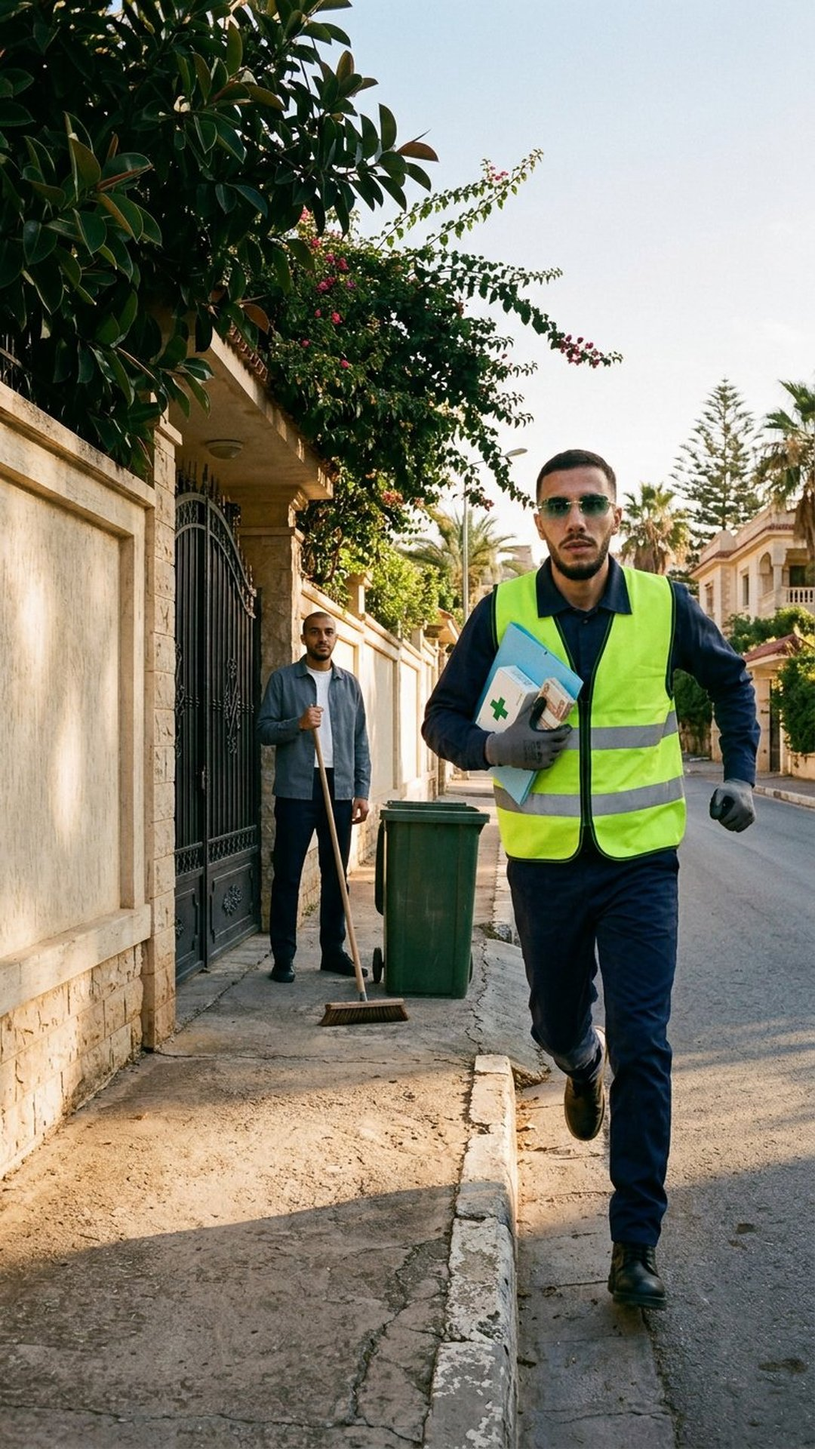
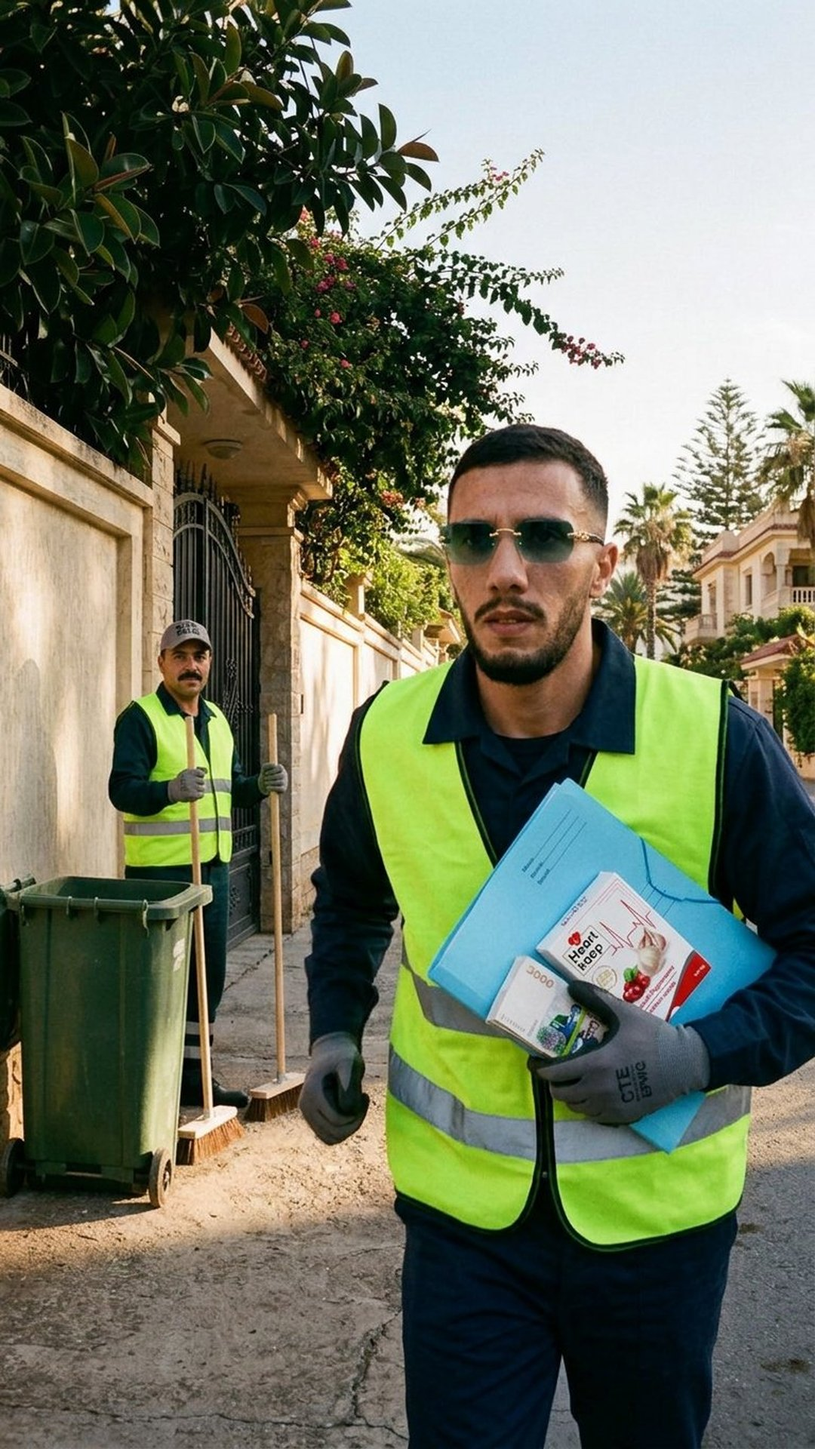
Upgrade AMIN_CLEANER_DRAMA_11SCENES (50mm close face lock, real 2000DA & Heart Keep props, CTE/EPWG Mourad, Scenes 01-08)

diff --git a/AMIN_CLEANER_DRAMA_11SCENES/00_SCENES_01_TO_08_FLOW_PROMPTS_9x16.md b/AMIN_CLEANER_DRAMA_11SCENES/00_SCENES_01_TO_08_FLOW_PROMPTS_9x16.md
@@ -1,0 +1,144 @@
+# 🎬 «أمين الزبّال: الدواء اللي فـالقمامة!» — المشاهد `01` إلى `08` (نسخة الواقعية الفائقة `50mm` + الإكسسوارات الحقيقية)
+## Google Flow (`Veo 3.1`) Vertical `9:16` Live-Action Algerian Drama Blueprint
+
+- **العنوان:** أمين الزبّال — «الدواء اللي فـالقمامة!» (*Amin the Sanitation Worker: The Medicine in the Trash*)
+- **النوع والأسلوب البصري:** دراما اجتماعية جزائرية واقعية (`Photorealistic 35mm Live-Action Cinema — ARRI Alexa Mini LF 50mm Prime Lens`)، تفاصيل مسام جلد حقيقية وقريبة (`Close Medium Framing`) تمنع تشوّه ملامح الوجه من بعيد.
+- **الأبعاد والمنصّة المستهدفة:** عمودي `9:16` (`1080×1920`) مصمّم خصّيصاً لـ **`Google Flow (Veo 3.1)`**.
+- **التقدّم الحالي:** تمّ إنجاز **جميع المراجع الثابتة + 8 مشاهد متسلسلة كاملة (`Scenes 01–08` = `64 ثانية`)**؛ يتبقّى فقط **المشاهد الختامية الثلاثة (`Scenes 09, 10, 11` = `24 ثانية`)** لإتمام الحلقة الكاملة (`11 مشهداً = 88 ثانية`).
+- **الموسيقى:** **`ZERO BACKGROUND MUSIC`** (صفر موسيقى خلفية — تركيز كامل على التمثيل الصوتي بالدارجة الجزائرية والمؤثرات الصوتية الفيزيائية الواقعية `Foley SFX`).
+
+---
+
+## 🔥 التحسينات الاحترافية المنفّذة في هذه النسخة
+
+1. **تطابق وجه أمين 100% بتأطير عدسة `50mm` القريب (`Zero Distance Drift`):**
+   - تمّ دمج صور البورتريه الماكرو الحقيقية عالية الدقّة لوجه أمين ونظاراته الزمردية ذات المفصل الذهبي (`CHAR_01_AMIN_CLEANER_9x16.jpg`)، مع تقريب الكاميرا في جميع المشاهد (`Waist-up / Mid-thigh 50mm Prime Framing`) حتى يظهر وجه أمين كبيراً وحادّ التفاصيل بنسبة 100% دون أي تغيّر من بعيد.
+2. **الإكسسوارات الجزائرية الحقيقية المرفوعة (`PROP_MASTER_SHEET_9x16.jpg`):**
+   - **علبة دواء القلب الحقيقية (`Heart keep`):** باللون الأبيض والأحمر ورسمة القلب وتخطيط النبض، تظهر بوضوح في يد سي كمال (`Scene 01`)، وداخل فوهة الكيس الأسود المرمي (`Scene 02`)، وعند تمزّق الكيس (`Scene 04`)، وفي يد أمين حتّى باب العيادة (`Scenes 05, 06, 08`).
+   - **رزمة الأوراق النقدية الجزائرية الحقيقية فئة `2000 دج` (`الألفا دينار — بنك الجزائر — مجموعة الستة`) المربوطة بمطاط أخضر + الورقة المنفردة (`2000 دج`):** تظهر بدقّة فوتوغرافية فائقة في مشاهد الاكتشاف والامتحان الأخلاقي والتسليم (`Scenes 04, 05, 06, 08`).
+3. **شخصية الزميل الجديد «مراد» عامل النظافة الجزائري (`CHAR_03_MOURAD_CLEANER_9x16.jpg`):**
+   - تمّ استبدال يوسف بشخصية زميل عمل جزائري واقعي (**مراد** — بشنب جزائري وأعين مكشوفة بدون نظارات)، يرتدي نفس بذلة وسترة النظافة الفسفورية، وعلى رأسه **قبعة رمادية مكتوب عليها بالأسود الواضح شعار `CTE / EPWG`**، ويحمل **مكنسته الخشبية الخاصة** كأنّه كان يكنس الشارع المجاور ومرّ على أمين (`Scene 05`)، ثم يمسك **المكنستين معاً (مكنسته ومكنسة أمين)** حين ينطلق أمين راكضاً نحو العيادة (`Scene 06`)!
+
+---
+
+## 📁 فهرس الملفات الجاهزة (`1080×1920`)
+
+### 1. المراجع الثابتة (`01_REFERENCES/`)
+- `CHAR_01_AMIN_CLEANER_9x16.jpg` — بطاقة القفل الفائقة لأمين (صور الوجه الحقيقية الماكرو + النظارة الزمردية الذهبية + بذلة النظافة).
+- `CHAR_02_SI_KAMAL_9x16.jpg` — بطاقة شخصية سي كمال رجل الأعمال (أعين مكشوفة بدون نظارات).
+- `CHAR_03_MOURAD_CLEANER_9x16.jpg` — بطاقة شخصية الزميل مراد ببذلة النظافة وقبعة `CTE / EPWG` الرمادية بالكتابة السوداء وحاملاً مكنسته.
+- `LOC_01_VILLA_STREET_9x16.jpg` — لوحة رصيف الفيلا بحيدرة صباحاً (`Scenes 01–06`).
+- `LOC_02_CLINIC_ENTRANCE_9x16.jpg` — لوحة مدخل عيادة أمراض القلب `CLINIQUE CARDIOLOGIQUE` (`Scenes 07–11`).
+- `PROP_MASTER_SHEET_9x16.jpg` — لوحة الإكسسوارات الحقيقية الموحّدة (`Heart keep` + رزمة `2000 دج` بمطاط أخضر + ورقة `2000 دج` منفردة).
+
+### 2. إطارات المشاهد الجاهزة (`02_SCENES_9x16/`)
+- `SCENE_01_SWEEPING_MORNING_9x16.jpg`
+- `SCENE_02_BAG_HURLED_AT_FEET_9x16.jpg`
+- `SCENE_03_PUBLIC_HUMILIATION_9x16.jpg`
+- `SCENE_04_TORN_BAG_MEDICINE_REVEAL_9x16.jpg`
+- `SCENE_05_MOURAD_TEMPTATION_REFUSED_9x16.jpg`
+- `SCENE_06_AMIN_RUNS_TO_CLINIC_9x16.jpg`
+- `SCENE_07_FATHER_COLLAPSE_STEPS_9x16.jpg`
+- `SCENE_08_AMIN_ARRIVES_BREATHLESS_9x16.jpg`
+
+---
+
+## 🎥 برومبتات `Google Flow (Veo 3.1)` الجاهزة للنّسخ (`Scenes 01–08`)
+
+> **طريقة الاستعمال في `Google Flow`:** اختر وضع **`Frames to Video` (`Portrait 9:16` — `Veo 3.1 - Quality`)**، ضع صورة المشهد في خانة **`First Frame`**، وانسخ البرومبت المقابل لها حرفياً. (للمشهدين `01 -> 02` يمكنك أيضاً وضع `SCENE_01` كـ `First Frame` و`SCENE_02` كـ `Last Frame` لانتقال متّصل بنسبة 100%).
+
+---
+
+### 🔹 SCENE 01 (`00:00 – 00:08`) — صباح الخبزة الحلال والخطأ القاتل على الهاتف
+- **ملف الإطار الأوّل (`First Frame`):** `02_SCENES_9x16/SCENE_01_SWEEPING_MORNING_9x16.jpg`
+- **الحوار بالدارجة الجزائرية (سي كمال فقط):**
+  > **سي كمال (متوتّر في الهاتف):** «راني خارَجْ ضْرُوكْ للْكْلينيكْ! قُولْ للْطّبيبْ ما يَبْداشْ العَمَلِيَّة حَتّى نَلْحَقْ!»
+
+```text
+Photorealistic 35mm live-action vertical 9:16 cinema clip starting from the exact uploaded frame on the sunlit Hydra Algiers villa sidewalk at 7:00 AM, shot on 50mm prime lens. Camera: Locked tripod medium shot keeping Amin's face sharp in the right foreground; zero camera shake, zero room mirroring, zero lens gaze. Action: In the right foreground beside the dark-green wheeled trash bin, the young Algerian sanitation worker in rimless emerald-gold spear-hinge sunglasses and neon-green reflective vest (Amin, mouth strictly closed and silent throughout) sweeps calmly along the concrete curb with his wooden push-broom. In the left midground walking briskly out from the black iron villa gate, the bare-eyed 48-year-old businessman in the charcoal blazer and sky-blue shirt (Si Kamal, NO glasses) presses his smartphone to his right ear while distractedly clutching the thin black plastic trash bag pressed tightly together with the white-and-red "Heart keep" medicine box and sky-blue clinic folder in his left hand. Only the older businessman on screen-left speaks urgently into his phone in authentic Algerian Darja from 0.8s to 6.5s: "راني خارَجْ ضْرُوكْ للْكْلينيكْ! قُولْ للْطّبيبْ ما يَبْداشْ العَمَلِيَّة حَتّى نَلْحَقْ!" Audio: crisp stiff push-broom bristles sweeping concrete, brisk leather dress shoes on stone pavement, thin black plastic bag rustling against the cardboard medicine box, faint morning Algiers birdsong, ZERO background music.
+```
+
+---
+
+### 🔹 SCENE 02 (`00:08 – 00:16`) — رمية الاحتقار عند الحذاء ونصيحة أمين الهادئة
+- **ملف الإطار الأوّل (`First Frame`):** `02_SCENES_9x16/SCENE_02_BAG_HURLED_AT_FEET_9x16.jpg`
+- **الحوار بالدارجة الجزائرية (أمين فقط):**
+  > **أمين (بهدوء وأدب):** «يا خُويا البُوبالْ راهي مَفْتوحَة قُدّامَكْ.. غِيرْ خَطْوْتِينْ بَرْكْ.»
+
+```text
+Photorealistic 35mm live-action vertical 9:16 cinema clip starting from the exact uploaded frame on the sunlit Algiers villa sidewalk, shot on 50mm prime lens. Camera: Locked tripod medium shot keeping Amin's face large and crisp on screen-right; zero digital zoom, zero lens gaze. Action: The thin black plastic trash bag with the slipped-in sky-blue medical folder and white-and-red "Heart keep" medicine box sits snagged on the jagged chipped concrete curb edge at the bottom center after being carelessly tossed there. On screen-left, the bare-eyed older businessman in the charcoal blazer (Si Kamal, NO glasses, mouth closed in an impatient scowl with his phone at his ear) stops and glares at Amin. In the right foreground, the young Algerian cleaner in rimless emerald-gold sunglasses and neon-green reflective vest (Amin) pauses his wooden broom, lifts his head calmly toward Si Kamal, and gestures respectfully with his right gloved hand toward the green wheeled trash bin right behind him. Only Amin on screen-right speaks calmly in authentic Algerian Darja from 1.2s to 6.2s: "يا خُويا البُوبالْ راهي مَفْتوحَة قُدّامَكْ.. غِيرْ خَطْوْتِينْ بَرْكْ." Audio: crinkle of the thin black plastic bag settling against rough chipped concrete, wooden broom handle tap, soft work-glove movement, quiet morning street air, ZERO background music.
+```
+
+---
+
+### 🔹 SCENE 03 (`00:16 – 00:24`) — الإهانة العلنية وجهاً لوجه وصمت الرجولة
+- **ملف الإطار الأوّل (`First Frame`):** `02_SCENES_9x16/SCENE_03_PUBLIC_HUMILIATION_9x16.jpg`
+- **الحوار بالدارجة الجزائرية (سي كمال فقط):**
+  > **سي كمال (باحتقار وغضب):** «ما تْوَرّينيشْ واشْ نْديرْ! خَدْمْتَكْ تَرْفَدْ الزّبَلْ وأنتَ ساكَتْ!»
+
+```text
+Photorealistic 35mm live-action vertical 9:16 cinema clip starting from the exact uploaded tight waist-up two-shot, shot on 50mm prime lens. Camera: Subtle slow cinematic push-in over 8 seconds keeping both faces razor-sharp; zero lens gaze. Action: On screen-left, the bare-eyed 48-year-old businessman in the charcoal blazer (Si Kamal, NO glasses) jabs his right index finger arrogantly toward Amin's chest as he barks his insult, then at 5.5s turns sharply away toward his parked black SUV in the background. On screen-right, the young Algerian cleaner in rimless emerald-gold spear-hinge sunglasses and neon-green reflective vest (Amin) grips his upright wooden broom shaft firmly with both grey gloved hands, keeping his mouth strictly closed, jaw tightening in quiet hurt and unbreakable dignity as he absorbs the insult silently. Only the older businessman on screen-left speaks harshly in authentic Algerian Darja from 0.5s to 5.2s: "ما تْوَرّينيشْ واشْ نْديرْ! خَدْمْتَكْ تَرْفَدْ الزّبَلْ وأنتَ ساكَتْ!" Audio: sharp blazer fabric snap on finger point, tight leather-and-cloth creak of work gloves gripping the wooden broom handle, brisk leather shoes turning away on concrete, distant luxury SUV door opening and closing at the end, ZERO background music.
+```
+
+---
+
+### 🔹 SCENE 04 (`00:24 – 00:32`) — الاكتشاف الواقعي: تمزّق الكيس الأسود وسقوط دواء `Heart keep` ورزمة `2000 دج`
+- **ملف الإطار الأوّل (`First Frame`):** `02_SCENES_9x16/SCENE_04_TORN_BAG_MEDICINE_REVEAL_9x16.jpg`
+- **الحوار بالدارجة الجزائرية (أمين فقط — همسة صدمة):**
+  > **أمين (بصدمة وخوف حقيقي):** «يا سَتّارْ.. هاذا دْوا تاعْ القَلْبْ ومَلَفْ عَمَلِيَّة ودْراهَمْ كْبارْ!»
+
+```text
+Photorealistic 35mm live-action vertical 9:16 cinema clip starting from the exact uploaded close crouching shot on the empty sunlit Algiers sidewalk, shot on 50mm prime lens. Camera: Subtle slow push-in on Amin and the spilled items on the concrete; zero lens gaze. Action: Crouching low beside the rough chipped concrete curb, the young Algerian cleaner in rimless emerald-gold sunglasses and neon-green reflective vest (Amin) holds the snagged, ripped-open thin black plastic trash bag in his left gloved hand while his right gloved hand reaches down gently to touch the white-and-red "Heart keep" medicine box lying beside the green-rubber-banded bundle of Algerian 2000 Dinar banknotes and single 2000 Dinar note atop the sky-blue medical clinic folder. His mouth parts in genuine shock and concern as he realizes what fell out of the torn bag. Only Amin speaks in a hushed, stunned voice in authentic Algerian Darja from 2.0s to 7.2s: "يا سَتّارْ.. هاذا دْوا تاعْ القَلْبْ ومَلَفْ عَمَلِيَّة ودْراهَمْ كْبارْ!" Audio: crisp realistic rustle and tear-crinkle of the snagged thin black plastic bag, gloved fingers tapping the cardboard "Heart keep" medicine box and stiff blue clinic folder, sharp intake of breath, ZERO background music.
+```
+
+---
+
+### 🔹 SCENE 05 (`00:32 – 00:40`) — امتحان الضمير: الزميل «مراد» (بقبعة `CTE / EPWG`) يغريه بالمال وأمين يرفض
+- **ملف الإطار الأوّل (`First Frame`):** `02_SCENES_9x16/SCENE_05_MOURAD_TEMPTATION_REFUSED_9x16.jpg`
+- **الحوار بالدارجة الجزائرية (بين مراد وأمين):**
+  > **مراد (`0.4s – 3.4s`):** «السّيّدْ بَهْدْلَكْ وْراحْ! أدّي هذو الدّْراهَمْ وخَلّيهْ!»
+  > **أمين (`3.7s – 7.7s`):** «حاشا يا مُرادْ! هاذا دْوا تاعْ القَلْبْ.. الرّجْلَة ما تَتْباعْشْ!»
+
+```text
+Photorealistic 35mm live-action vertical 9:16 cinema clip starting from the exact uploaded tight waist-up two-shot on the sunlit Algiers sidewalk, shot on 50mm prime lens. Camera: Locked tripod medium two-shot; strict Identity Firewall (Mourad on screen-left wears the grey "CTE / EPWG" cap with bare eyes and NO glasses; ONLY Amin on screen-right wears rimless emerald-gold sunglasses and NO cap); zero lens gaze. Action: From 0.4s to 3.4s, the mustached fellow sanitation worker on screen-left (Mourad, resting his wooden push-broom against his shoulder) gestures persuasively with the green-rubber-banded Algerian 2000 Dinar banknote bundle in his gloved hands while Amin keeps his mouth closed listening. At 3.7s, Mourad closes his mouth completely as Amin on screen-right (clutching the sky-blue medical folder and white-and-red "Heart keep" medicine box against his neon-green vest) shakes his raised right gloved index finger firmly in noble refusal, then reaches out cleanly at 6.6s to take the 2000 Dinar bundle back onto the folder to return it intact. Dialogue strictly locked by speaker turn in authentic Algerian Darja — Mourad (screen-left, 0.4s–3.4s): "السّيّدْ بَهْدْلَكْ وْراحْ! أدّي هذو الدّْراهَمْ وخَلّيهْ!" Then Amin (screen-right, 3.7s–7.7s): "حاشا يا مُرادْ! هاذا دْوا تاعْ القَلْبْ.. الرّجْلَة ما تَتْباعْشْ!" Audio: crisp riffle of 2000 Dinar banknotes, wooden broom shaft shifting against reflective vest fabric, firm gloved hand reclaiming the cash bundle onto the cardboard folder, ZERO background music.
+```
+
+---
+
+### 🔹 SCENE 06 (`00:40 – 00:48`) — سباق مع الموت (ومراد يمسك المكنستين معاً!)
+- **ملف الإطار الأوّل (`First Frame`):** `02_SCENES_9x16/SCENE_06_AMIN_RUNS_TO_CLINIC_9x16.jpg`
+- **الحوار بالدارجة الجزائرية (أمين يلهث أثناء الجري):**
+  > **أمين (وهو يجري):** «أحْكَمْ البالي يا مُرادْ.. لازَمْ نَلْحَقْ الكْلينيكْ قْبَلْ ما يْفوتْ الحَالْ!»
+
+```text
+Photorealistic 35mm live-action vertical 9:16 cinema clip starting from the exact uploaded close waist-up action frame on the sunlit Hydra Algiers street, shot on 50mm prime lens. Camera: Smooth steady backward tracking shot moving just ahead of Amin at running pace so his face stays close and razor-sharp; zero direct lens gaze (eyes fixed urgently down the street just past the lens). Action: In the foreground, the young Algerian cleaner in rimless emerald-gold sunglasses and neon-green reflective vest (Amin) sprints hard forward down the sunlit street, clutching the sky-blue medical folder, white-and-red "Heart keep" medicine box, and Algerian 2000 Dinar banknote bundle tightly against his chest with his left gloved hand while pumping his right arm. In the background beside the green wheeled trash bin, the mustached colleague in the grey "CTE / EPWG" cap (Mourad, mouth closed) stands holding both wooden push-brooms upright, watching Amin sprint away. Only Amin speaks breathlessly mid-run in authentic Algerian Darja from 0.8s to 5.5s: "أحْكَمْ البالي يا مُرادْ.. لازَمْ نَلْحَقْ الكْلينيكْ قْبَلْ ما يْفوتْ الحَالْ!" Audio: heavy rapid work boots pounding rhythmically on asphalt, urgent athletic breathing, reflective vest nylon swishing with every stride, ZERO background music.
+```
+
+---
+
+### 🔹 SCENE 07 (`00:48 – 00:56`) — انهيار الغرور: بكاء الأب على درج عيادة القلب
+- **ملف الإطار الأوّل (`First Frame`):** `02_SCENES_9x16/SCENE_07_FATHER_COLLAPSE_STEPS_9x16.jpg`
+- **الحوار بالدارجة الجزائرية (سي كمال بصوت متهدّج بالبكاء):**
+  > **سي كمال (يبكي بحرقة):** «يا رَبّي وينْ طاحْ الدّوا والمَلَفْ؟! وَلْدي راحْ يْروحْ مَنْ يَدّي!»
+
+```text
+Photorealistic 35mm live-action vertical 9:16 cinema clip starting from the exact uploaded close emotional shot on the sunlit cream stone steps of the "CLINIQUE CARDIOLOGIQUE", shot on 50mm prime lens. Camera: Subtle slow push-in on the weeping father; zero lens gaze. Action: Seated slumped forward on the cream stone clinic steps beside the stainless-steel handrail, the bare-eyed 48-year-old businessman in the charcoal blazer and crumpled sky-blue shirt (Si Kamal, NO glasses) trembles in shattered grief, tears glistening on his cheeks as he presses his left hand desperately against his forehead and shakes his head in helpless agony, clutching his black phone in his right hand. Only Si Kamal speaks in a broken, tear-choked voice in authentic Algerian Darja from 1.0s to 6.8s: "يا رَبّي وينْ طاحْ الدّوا والمَلَفْ؟! وَلْدي راحْ يْروحْ مَنْ يَدّي!" Audio: raw shaky human sobs and trembling breath, suit fabric rustle against stone step, quiet morning clinic courtyard ambience, ZERO background music.
+```
+
+---
+
+### 🔹 SCENE 08 (`00:56 – 01:04`) — لحظة الإنقاذ: وصول أمين لاهثاً بالدواء والأمانة كاملة
+- **ملف الإطار الأوّل (`First Frame`):** `02_SCENES_9x16/SCENE_08_AMIN_ARRIVES_BREATHLESS_9x16.jpg`
+- **الحوار بالدارجة الجزائرية (أمين يلهث باحترام):**
+  > **أمين (يلهث بعد الجري):** «يا خُويا.. هاكْ دْوا القَلْبْ والمَلَفْ ودْراهْمَكْ.. طاحُولَكْ فـالصّاشي تاعْ الزّبَلْ!»
+
+```text
+Photorealistic 35mm live-action vertical 9:16 cinema clip starting from the exact uploaded close two-level shot on the sunlit "CLINIQUE CARDIOLOGIQUE" stone steps, shot on 50mm prime lens. Camera: Locked tripod medium-close shot keeping Amin's sweaty face and the props razor-sharp in the right foreground; zero lens gaze. Action: Stepping onto the bottom stone step on screen-right, breathless and lightly sweating from running on foot, the young Algerian cleaner in rimless emerald-gold spear-hinge sunglasses and neon-green reflective vest (Amin) extends both grey gloved hands respectfully forward toward the seated man, holding out the intact white-and-red "Heart keep" medicine box and green-rubber-banded Algerian 2000 Dinar banknote bundle resting atop the sky-blue medical folder. On screen-left seated on the steps, tear-streaked bare-eyed Si Kamal (mouth parted in silent, stunned shock) freezes staring up at Amin and the medicine box. Only Amin speaks breathlessly and sincerely in authentic Algerian Darja from 0.8s to 6.8s: "يا خُويا.. هاكْ دْوا القَلْبْ والمَلَفْ ودْراهْمَكْ.. طاحُولَكْ فـالصّاشي تاعْ الزّبَلْ!" Audio: heavy work-boot step onto travertine stone, Amin's real breathless panting between words, crisp cardboard medicine box and folder held steady in work gloves, Si Kamal's stunned gasp, ZERO background music.
+```
+
+---
+
+## ⏭ المحطّة الأخيرة (3 مشاهد فقط `Scenes 09, 10, 11` في الرّسالة القادمة):
+- **`SCENE_09`:** وقوف **سي كمال** منكسراً ومرتجفاً أمام أمين حين يستوعب أنّ من أنقذ حياة ابنه هو نفسه "الزبّال" الذي أهانه قبل دقائق.
+- **`SCENE_10`:** سي كمال يحاول وضع رزمة الـ `2000 دج` كلّها في يد أمين وتقبيل كتفه، وأمين يردّ يده بلطف وعزّة نفس: *«خَبّي دْراهْمَكْ لْوَلْدَكْ خُويا.. أدْخُلْ ضْرُوكْ الطّبيبْ راهُو يَسْتَنّى!»*
+- **`SCENE_11` (القفلة المليونية):** الجملة الخالدة لأمين بوجه قريب حادّ التفاصيل قبل أن يستدير عائداً لمكنسته: *«حْنا نَرْفْدو وَسَخْ الزَّنْقَة يا خُويا.. بَصَّحْ قْلوبْنا أنْظَفْ مَنْ حْوايَجْ بَزّافْ نّاسْ. رَبّي يْشافيهُولَكْ!»*
